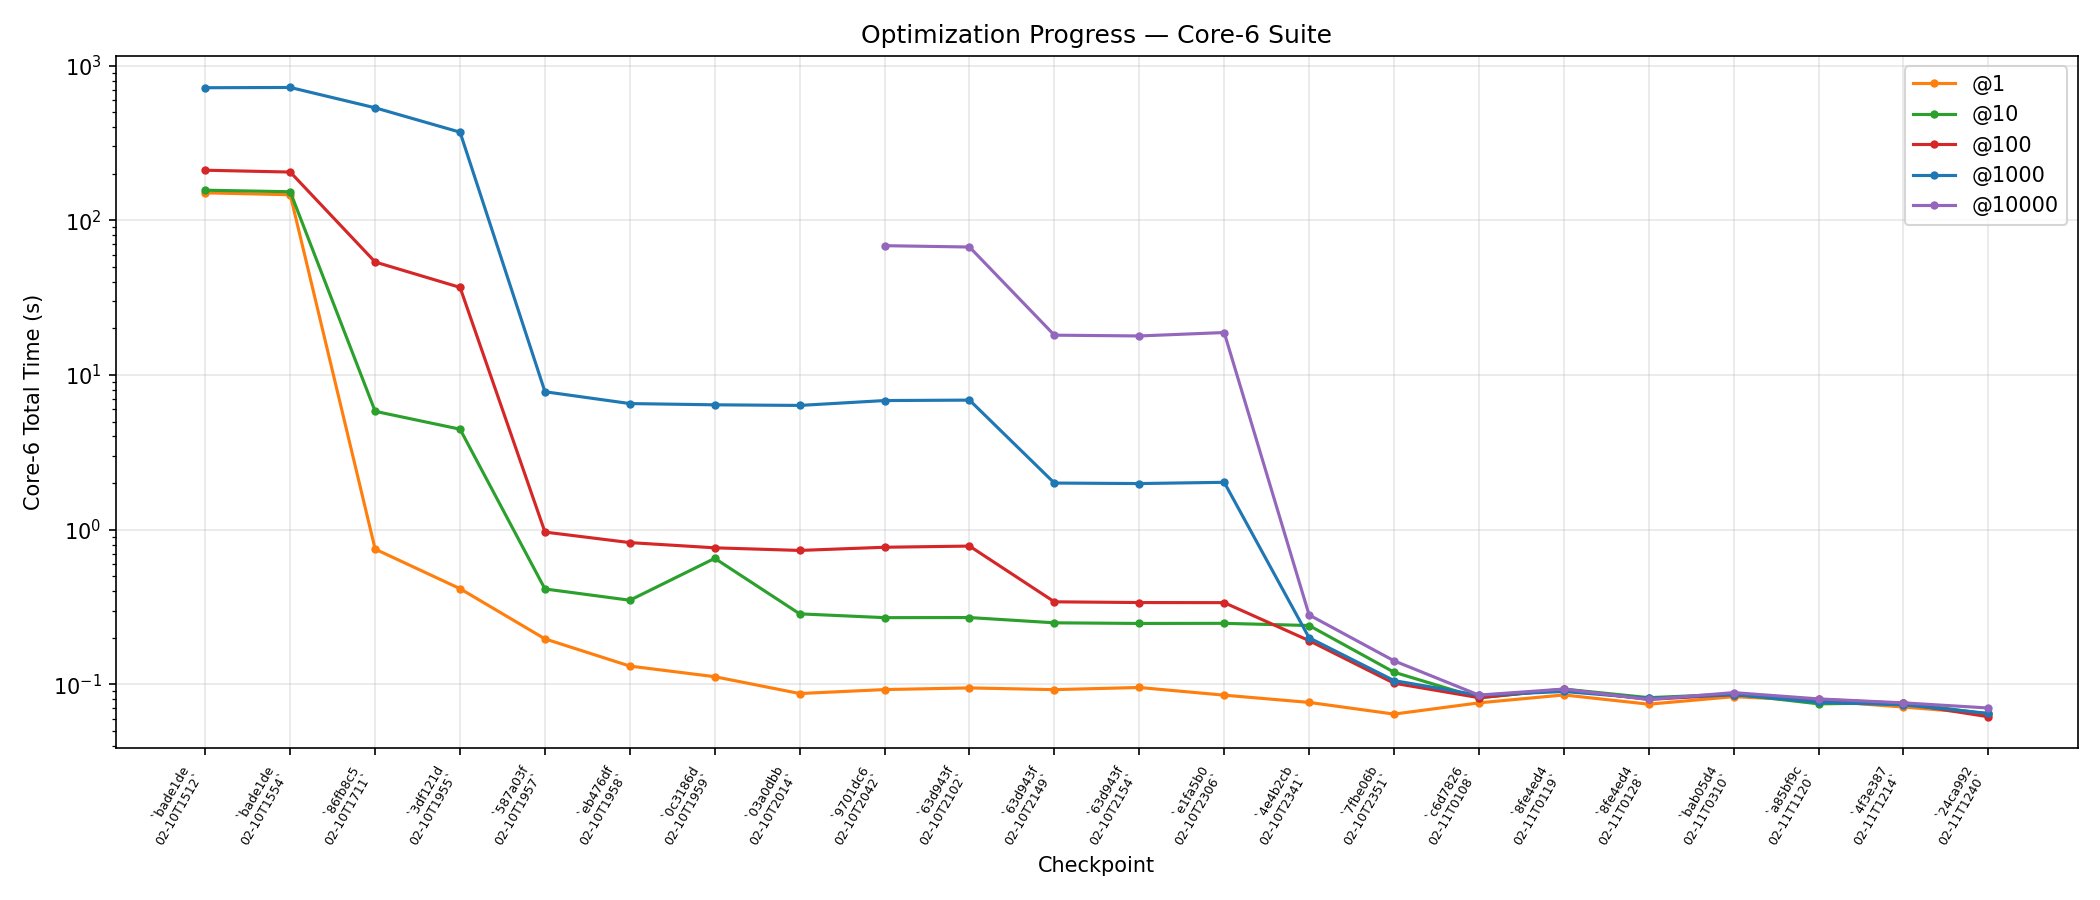
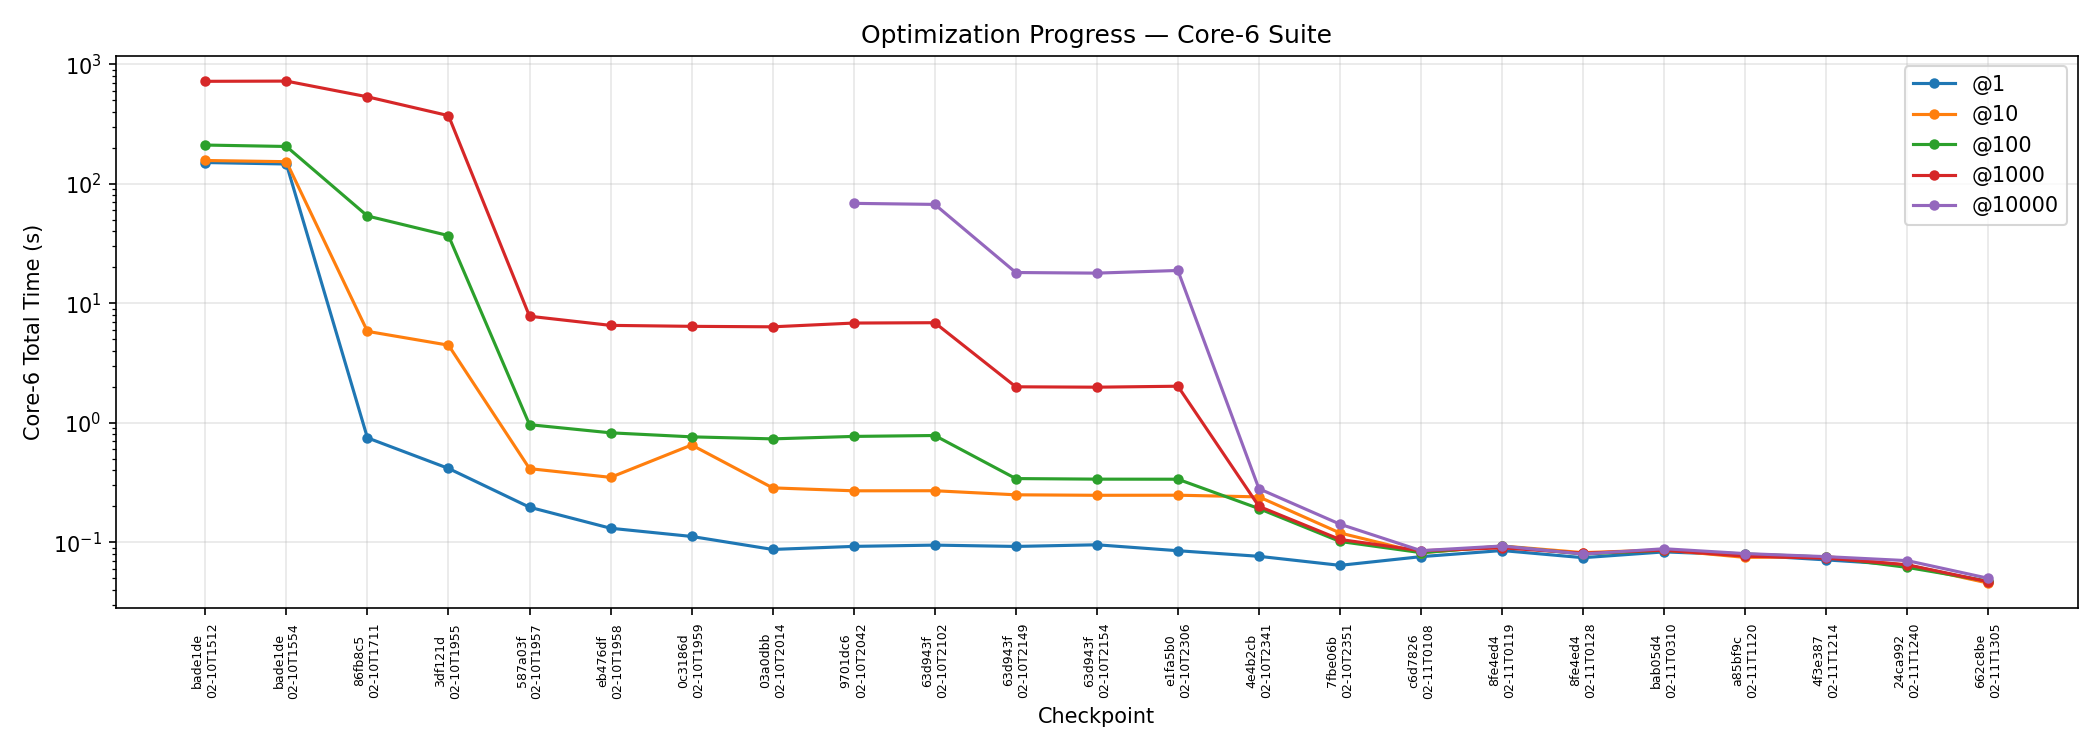
Record idx 22: compile-time diagonal fusion (662c8be)
Core-6 @1000: 0.047s (1.39x faster than idx 21).
Static suite 43% faster, phase_ladder_13 5.0x faster.

diff --git a/docs/experiment-log.md b/docs/experiment-log.md
@@ -31,3 +31,4 @@ Machine: Apple M1 Max, 32 GB. Backend: PyTorch MPS.
 | 20 | `4f3e387` | Stride-based slicing for 1q+2q dense gates with CPU scalar dispatch. Eliminates tensordot permutation copies (77% of CPU time) and per-gate MPS transfers (~450μs each). `random_universal_14` 2.4x faster. | 0.074s / 0.076s @10k | Worked (1.04x / 1.06x core-6; 2.4x on parameterized circuits) |
 | F3 | (reverted) | Stride-based slicing for 2q diagonal gates. 6D view → 4D non-contiguous slices catastrophically slow on MPS: `phase_ladder_13` 6.6x slower, `qft` 5x slower, `diagonal_mesh_15` 4.9x slower. | — | Did not work |
 | 21 | `24ca992` | Replaced diagonal gate device transfers with `torch.where` + CPU scalars. 1q uses cached measurement mask, 2q uses cached subindex. All ops on contiguous tensors, no MPS transfers. `phase_ladder_13` 1.34x, `diagonal_mesh_15` 1.58x faster. | 0.065s / 0.070s @10k | Worked (1.14x / 1.08x core-6) |
+| 22 | `662c8be` | Compile-time diagonal gate fusion. Consecutive diagonal gates fused into single full-state diagonal via numpy (avoids MPS interference). Pre-transferred to MPS before main loop (avoids memory fragmentation). `phase_ladder_13` 5.0x, `qft` 3.5x faster. Static suite 43% faster. | 0.047s / 0.050s @10k | Worked (1.39x / 1.40x core-6) |

diff --git a/docs/progress-data.md b/docs/progress-data.md
@@ -45,6 +45,7 @@ Data source files are in `benchmarks/results/` and are listed below in plotting 
 | 19 | `2026-02-11T112001.jsonl` | `a85bf9c` | `a85bf9c\n02-11T1120` | 0.0784 | 0.0748 | 0.0799 | 0.0766 | 0.0805 |
 | 20 | `2026-02-11T121400.jsonl` | `4f3e387` | `4f3e387\n02-11T1214` | 0.0713 | 0.0761 | 0.0753 | 0.0737 | 0.0759 |
 | 21 | `2026-02-11T124030.jsonl` | `24ca992` | `24ca992\n02-11T1240` | 0.0645 | 0.0642 | 0.0617 | 0.0649 | 0.0703 |
+| 22 | `2026-02-11T130554.jsonl` | `662c8be` | `662c8be\n02-11T1305` | 0.0464 | 0.0456 | 0.0474 | 0.0468 | 0.0500 |
 
 ## Notes
 
